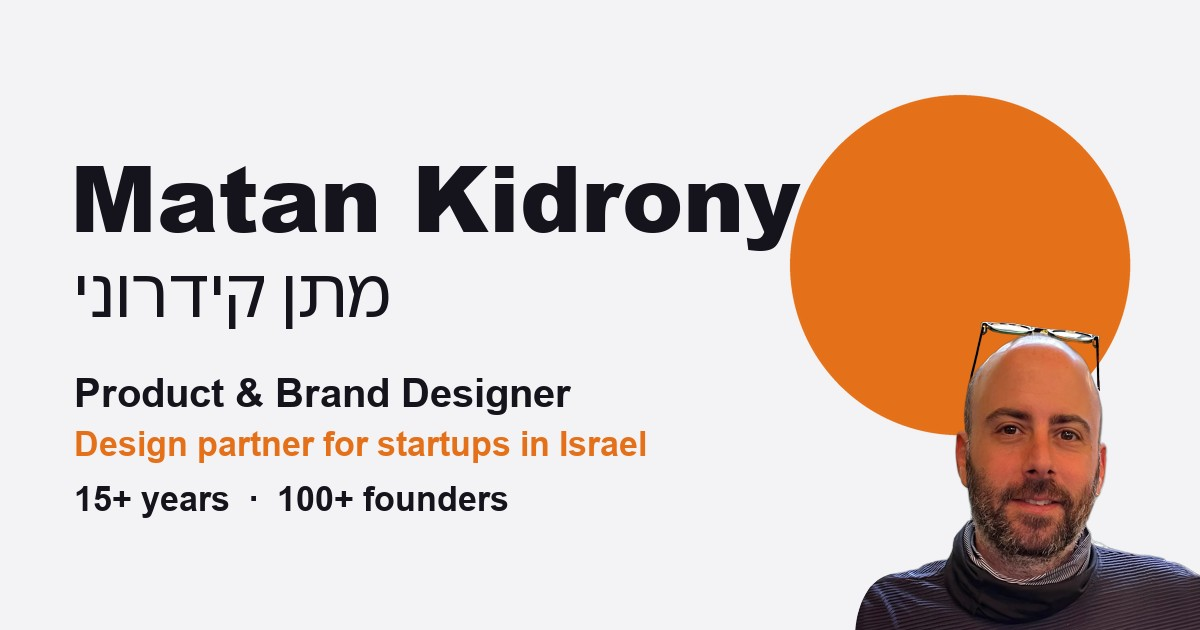
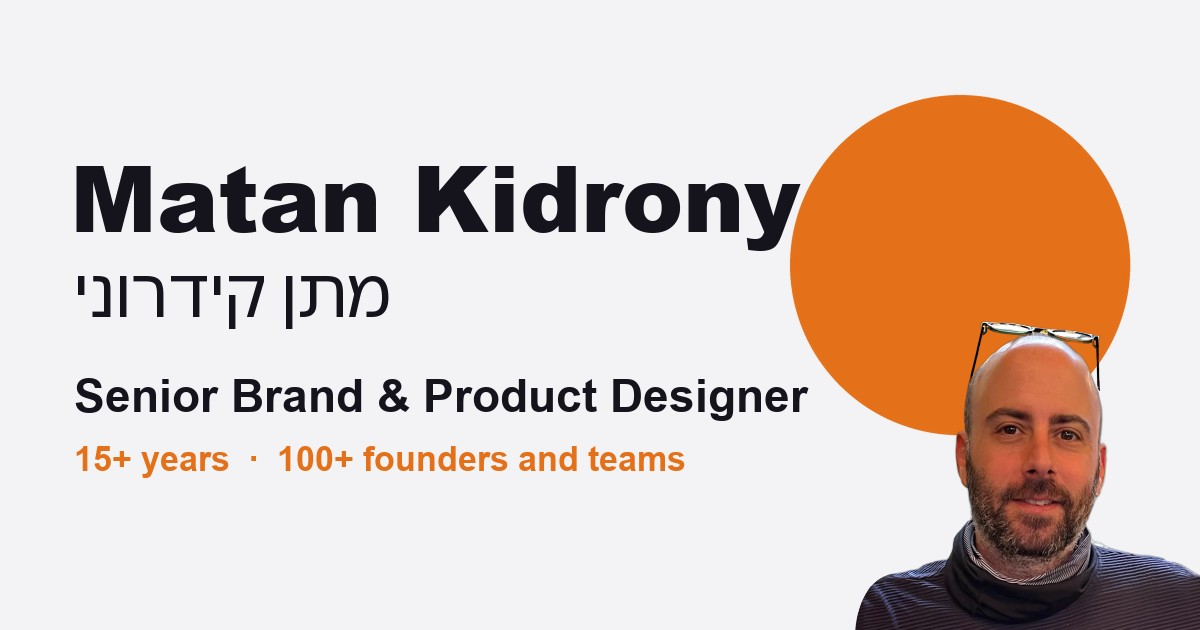
One role everywhere: Senior Brand & Product Designer; drop Head of Design and design-partner wording

Changed region(s): [[0.0617, 0.6032, 0.6783, 0.8143]]

diff --git a/index.html b/index.html
@@ -3,8 +3,8 @@
 <head>
 <meta charset="utf-8">
 <meta name="viewport" content="width=device-width, initial-scale=1, viewport-fit=cover">
-<title>Matan Kidrony | מתן קידרוני – Design Partner for Startups</title>
-<meta name="description" content="Matan Kidrony (מתן קידרוני), product & brand designer and design partner for startups in Israel. 15+ years, 100+ founders.">
+<title>Matan Kidrony | מתן קידרוני – Senior Brand & Product Designer</title>
+<meta name="description" content="Matan Kidrony (מתן קידרוני), Senior Brand & Product Designer. 15+ years, 100+ founders and teams.">
 <meta name="author" content="Matan Kidrony">
 <meta name="robots" content="index, follow, max-image-preview:large">
 <meta name="theme-color" content="#15131c">
@@ -13,20 +13,20 @@
 <link rel="apple-touch-icon" href="assets/favicon.png">
 <meta property="og:type" content="profile">
 <meta property="og:site_name" content="Matan Kidrony">
-<meta property="og:title" content="Matan Kidrony | מתן קידרוני – Product &amp; Brand Designer">
-<meta property="og:description" content="Matan Kidrony (מתן קידרוני), product & brand designer and design partner for startups in Israel. 15+ years, 100+ founders.">
+<meta property="og:title" content="Matan Kidrony | מתן קידרוני – Senior Brand & Product Designer">
+<meta property="og:description" content="Matan Kidrony (מתן קידרוני), Senior Brand & Product Designer. 15+ years, 100+ founders and teams.">
 <meta property="og:url" content="https://kidmatik.github.io/portfolio/">
 <meta property="og:image" content="https://kidmatik.github.io/portfolio/assets/og-card.jpg">
 <meta property="og:image:width" content="1200">
 <meta property="og:image:height" content="630">
-<meta property="og:image:alt" content="Matan Kidrony, product and brand designer, with his portrait in an orange circle">
+<meta property="og:image:alt" content="Matan Kidrony, Senior Brand & Product Designer, with his portrait in an orange circle">
 <meta property="og:locale" content="en_US">
 <meta property="og:locale:alternate" content="he_IL">
 <meta property="profile:first_name" content="Matan">
 <meta property="profile:last_name" content="Kidrony">
 <meta name="twitter:card" content="summary_large_image">
-<meta name="twitter:title" content="Matan Kidrony | מתן קידרוני – Design Partner for Startups">
-<meta name="twitter:description" content="Matan Kidrony (מתן קידרוני), product & brand designer and design partner for startups in Israel. 15+ years, 100+ founders.">
+<meta name="twitter:title" content="Matan Kidrony | מתן קידרוני – Senior Brand & Product Designer">
+<meta name="twitter:description" content="Matan Kidrony (מתן קידרוני), Senior Brand & Product Designer. 15+ years, 100+ founders and teams.">
 <meta name="twitter:image" content="https://kidmatik.github.io/portfolio/assets/og-card.jpg">
 <link rel="preconnect" href="https://fonts.googleapis.com">
 <link rel="preconnect" href="https://fonts.gstatic.com" crossorigin>
@@ -406,7 +406,7 @@ html.mk-lock, html.mk-lock body { overflow: hidden; }
    "@type": "ProfilePage",
    "@id": "https://kidmatik.github.io/portfolio/#profile",
    "url": "https://kidmatik.github.io/portfolio/",
-   "name": "Matan Kidrony | Product & Brand Designer",
+   "name": "Matan Kidrony | Senior Brand & Product Designer",
    "inLanguage": "en",
    "isPartOf": {
     "@id": "https://kidmatik.github.io/portfolio/#website"
@@ -435,11 +435,9 @@ html.mk-lock, html.mk-lock body { overflow: hidden; }
    "image": {
     "@id": "https://kidmatik.github.io/portfolio/#image"
    },
-   "description": "Matan Kidrony (מתן קידרוני), product & brand designer and design partner for startups in Israel. 15+ years, 100+ founders.",
+   "description": "Matan Kidrony (מתן קידרוני), Senior Brand & Product Designer. 15+ years, 100+ founders and teams.",
    "jobTitle": [
-    "Product & Brand Designer",
-    "Design Leader",
-    "Design Partner for Startups"
+    "Senior Brand & Product Designer"
    ],
    "knowsLanguage": [
     "English",
@@ -454,35 +452,15 @@ html.mk-lock, html.mk-lock body { overflow: hidden; }
     "Brand identity",
     "UX/UI design",
     "Design systems",
-    "Design leadership",
-    "Fractional Head of Design",
     "Design strategy for startups",
     "Visual identity",
     "Startup branding",
-    "Design for early-stage startups"
+    "Design for early-stage startups",
+    "Senior brand and product design"
    ],
    "sameAs": [
     "https://www.linkedin.com/in/matankidrony",
     "https://matan.design"
-   ]
-  },
-  {
-   "@type": "Service",
-   "@id": "https://kidmatik.github.io/portfolio/#service",
-   "name": "Design partner and fractional Head of Design for startups",
-   "provider": {
-    "@id": "https://kidmatik.github.io/portfolio/#person"
-   },
-   "areaServed": {
-    "@type": "Country",
-    "name": "Israel"
-   },
-   "serviceType": [
-    "Fractional Head of Design",
-    "Product design",
-    "Brand identity",
-    "Design systems",
-    "Design strategy"
    ]
   },
   {
@@ -492,7 +470,7 @@ html.mk-lock, html.mk-lock body { overflow: hidden; }
    "contentUrl": "https://kidmatik.github.io/portfolio/assets/og-card.jpg",
    "width": 1200,
    "height": 630,
-   "caption": "Matan Kidrony, product and brand designer"
+   "caption": "Matan Kidrony, Senior Brand & Product Designer"
   }
  ]
 }
@@ -535,7 +513,7 @@ html.mk-lock, html.mk-lock body { overflow: hidden; }
         <span class="s" data-a="I design" data-b=" products that work."><span class="a">I design</span><span class="b"> products that work.</span></span>
         <span class="s" data-a="I shape" data-b=" ideas to the final pixel."><span class="a">I shape</span><span class="b"> ideas to the final pixel.</span></span>
       </h1>
-      <p class="sub">I'm Matan Kidrony, a senior product and brand designer.<br class="br-d">I shape the thinking, the visual language and the system<br class="br-d">behind it, then carry it across every touchpoint.</p>
+      <p class="sub">I'm Matan Kidrony, a Senior Brand &amp; Product Designer.<br class="br-d">I shape the thinking, the visual language and the system<br class="br-d">behind it, then carry it across every touchpoint.</p>
       <div class="facts">
         <div><span class="mono">Focus</span><b>Product &amp; brand design</b></div>
         <div><span class="mono">Experience</span><b>15+ years</b></div>
@@ -726,9 +704,9 @@ html.mk-lock, html.mk-lock body { overflow: hidden; }
       <div class="about-grid">
         <h2>About</h2>
         <div class="text">
-          <p>Hello, I'm Matan Kidrony, but you can call me Kid. I'm a product and brand designer, and a design partner for startups in Israel. I help founders make clear design decisions, from the first sketch through every growth stage.</p>
+          <p>Hello, I'm Matan Kidrony, but you can call me Kid. I'm a Senior Brand &amp; Product Designer. I help teams make clear design decisions, from the first sketch through every growth stage.</p>
           <p>My journey began at a digital agency, where I got hooked on the meeting point of technology, human behavior and data. Since then I've designed mobile apps, web platforms and brand identities, often as the only designer in the room.</p>
-          <p>Over the years I've worked hands-on with more than 100 startups, founders and managers: bringing order to design chaos, aligning product and brand, and helping teams move faster with confidence. Sometimes I step in as an external Head of Design, sometimes as a strategic advisor. Always focused on clarity, momentum and decisions, not endless debates.</p>
+          <p>Over the years I've worked hands-on with more than 100 startups, founders and managers: bringing order to design chaos, aligning product and brand, and helping teams move faster with confidence. Always focused on clarity, momentum and decisions, not endless debates.</p>
           <ul class="glance" aria-label="At a glance">
             <li><b data-to="15">15+</b><span>years designing</span></li>
             <li><b data-to="100">100+</b><span>startups &amp; founders</span></li>

diff --git a/testimonials/index.html b/testimonials/index.html
@@ -4,7 +4,7 @@
 <meta charset="utf-8">
 <meta name="viewport" content="width=device-width, initial-scale=1, viewport-fit=cover">
 <title>Client Testimonials | Matan Kidrony | מתן קידרוני</title>
-<meta name="description" content="What founders, CEOs and marketing leaders say about working with Matan Kidrony, product and brand designer.">
+<meta name="description" content="What founders, CEOs and marketing leaders say about working with Matan Kidrony, Senior Brand & Product Designer.">
 <link rel="canonical" href="https://kidmatik.github.io/portfolio/testimonials/">
 <meta name="author" content="Matan Kidrony">
 <meta property="og:url" content="https://kidmatik.github.io/portfolio/testimonials/">
